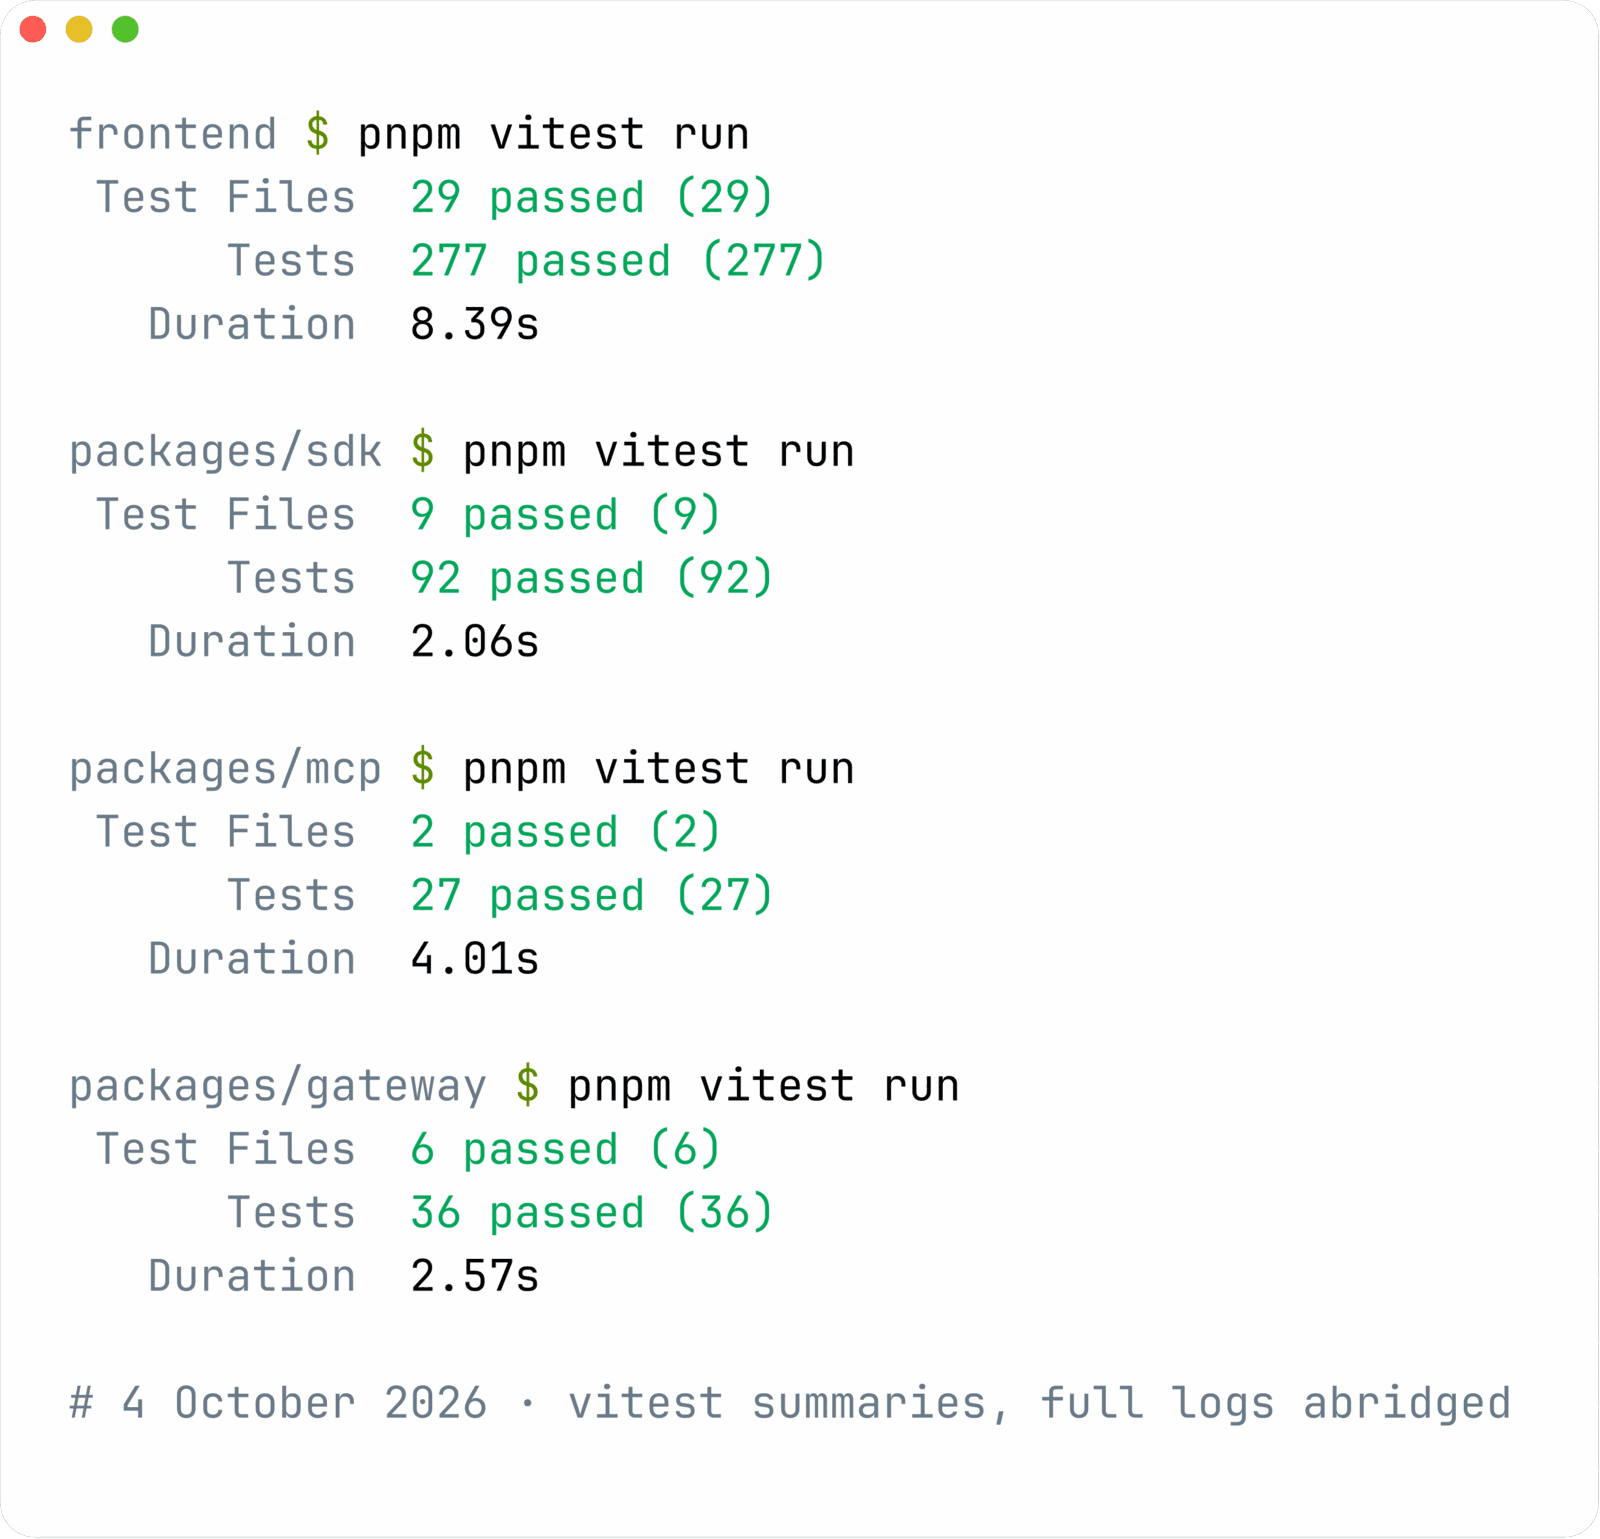
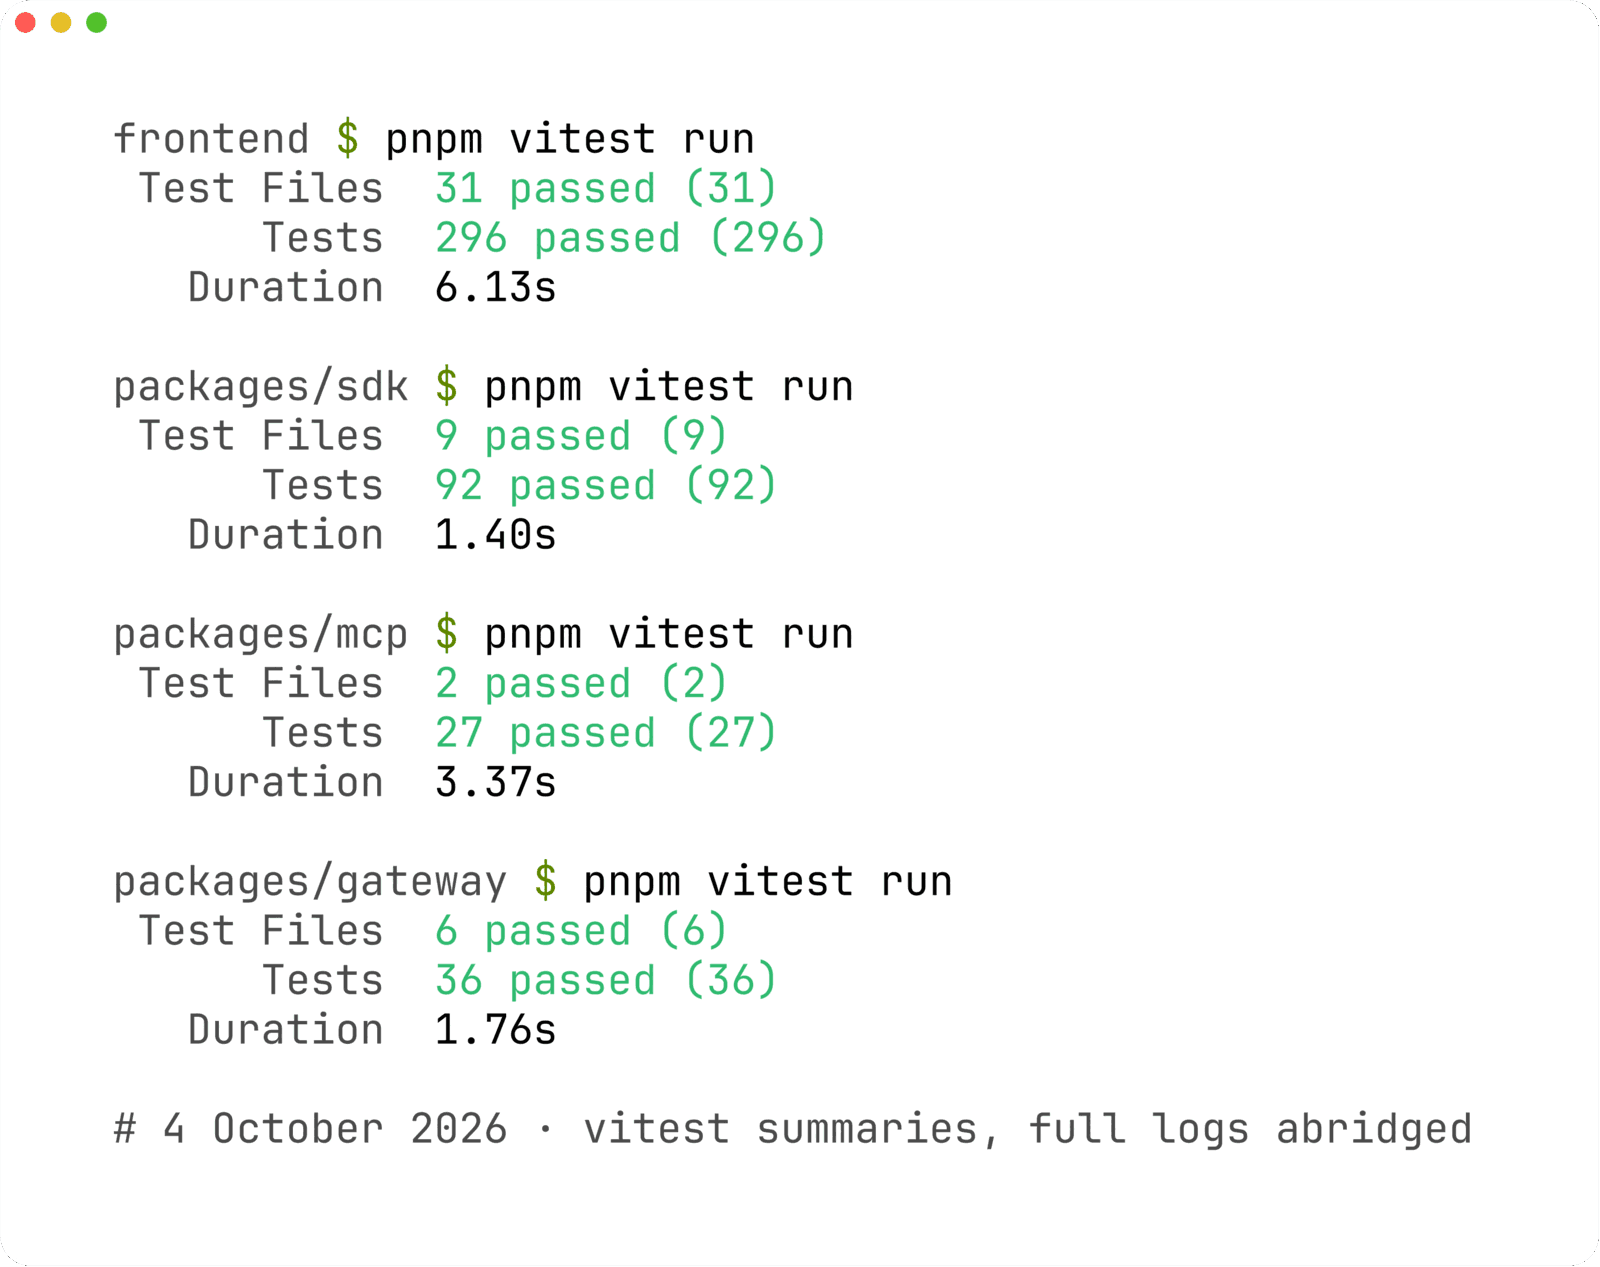
docs(assets): frontend unit test count is 296

diff --git a/video/src/readme/Stills.tsx b/video/src/readme/Stills.tsx
@@ -185,7 +185,7 @@ export const MEASURED = { w: 1600, h: 540 };
 const BIG: { n: string; label: string; how: string }[] = [
   { n: "366", label: "contract tests", how: "forge test · unit, fuzz, invariants, real proofs" },
   { n: "25", label: "circuit tests", how: "circom · tamper and wrong-context cases" },
-  { n: "277", label: "frontend unit", how: "vitest · 29 files" },
+  { n: "296", label: "frontend unit", how: "vitest · 31 files" },
   { n: "18", label: "end-to-end", how: "Playwright + axe on the real stack" },
 ];
 const SMALL: { n: string; label: string }[] = [
